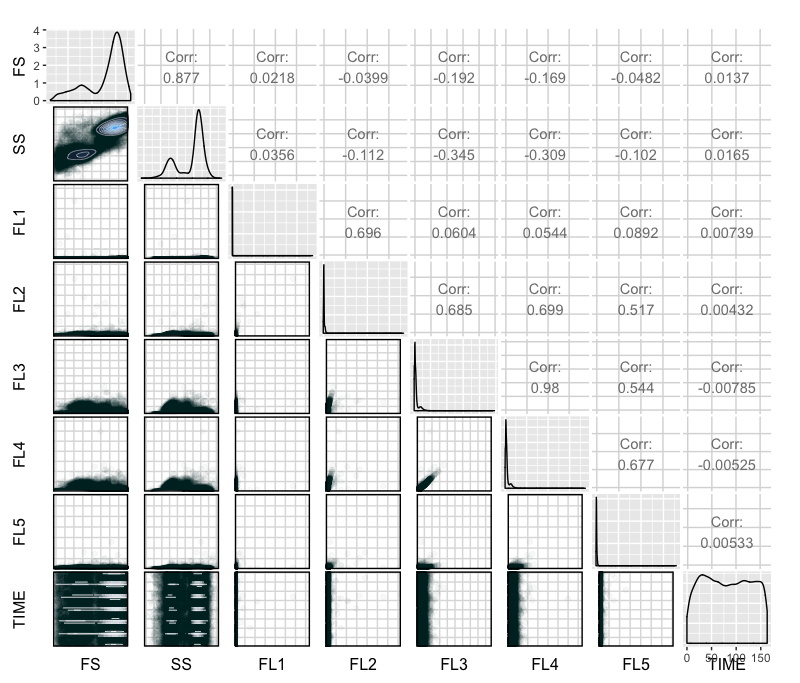
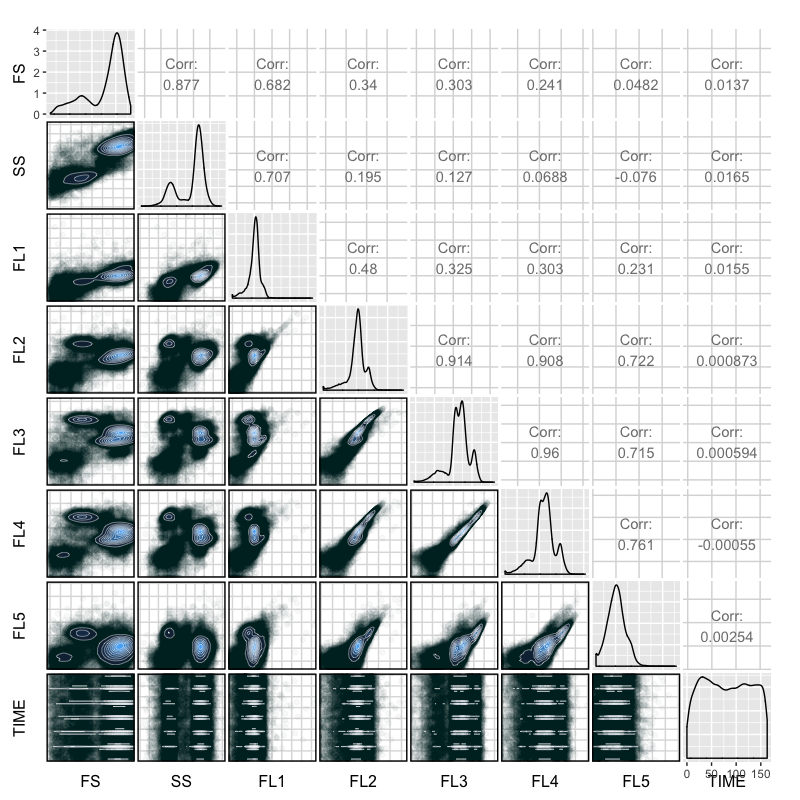
Fix multivariate plot

diff --git a/README.md b/README.md
@@ -883,12 +883,23 @@ Pour estimer les paramètres optimaux de la transformation biexponentielle,il ex
 * w: la largeur de la zone de linéarisation, qui peut être estimée par (m - log(t/abs(r)))/2 mais qui peut nécessiter quelques ajustements.
 * a: ce paramètre est moins important mais peut être utilisé pour tasser davantage les valeurs vers les positifs après avoir choisi les autres paramètres. On peut habituellement le laisser à 0.
 
-Bref je vous épargne les essais et erreurs, mais j'en suis arrivé aux paramètres suivants à partir des graphes qu'on vient de générer. On effectue la transformation des données!
+Bref je vous épargne les essais et erreurs, mais j'en suis arrivé aux paramètres suivants à partir des graphes qu'on vient de générer, et les graphes des channels de fluorescence (FL1 à FL5), que je ne montre pas ici. On effectue la transformation des données!
 
 ```
-lgcl_FS <- logicleTransform(w=0.6, t=1300000, m=4.5, a=0)
-lgcl_SS <- logicleTransform(w=0.5, t=500, m=3, a=0)
-tData <- transform(pt4_fs_trunc, FS=lgcl_FS(FS), SS=lgcl_SS(SS))
+lgcl_FS  <- logicleTransform(w=0.60, t=1300000, m=4.5, a=0)
+lgcl_SS  <- logicleTransform(w=0.50, t=500,     m=3,   a=0)
+lgcl_FL1 <- logicleTransform(w=0.79, t=130000,  m=4.5, a=0)
+lgcl_FL2 <- logicleTransform(w=0.92, t=100000,  m=4.5, a=0)
+lgcl_FL3 <- logicleTransform(w=0.92, t=100000,  m=4.5, a=0)
+lgcl_FL4 <- logicleTransform(w=0.46, t=250000,  m=4.5, a=0)
+lgcl_FL5 <- logicleTransform(w=1.17, t=60000,   m=4.5, a=0)
+tData <- transform(pt4_fs_trunc, FS =lgcl_FS(FS),
+                                 SS =lgcl_SS(SS),
+                                 FL1=lgcl_FL1(FL1),
+                                 FL2=lgcl_FL2(FL2),
+                                 FL3=lgcl_FL3(FL3),
+                                 FL4=lgcl_FL4(FL4),
+                                 FL5=lgcl_FL5(FL5))
 
 # tData n'est pas un dataFrame standard de R... c'est un objet de type 'flowFrame' défini
 # par la librairie flowCore. On va le convertir en dataframe standard plus simple à manipuler.
@@ -906,10 +917,10 @@ Excellent! On discerne beaucoup mieux les sous-populations de cellules... Mais l
 
 ```
 make.nice.plot <- function(data,
+                           mapping,
                            plot.title=NULL,
                            y.axis.title="y",
                            x.axis.title="x",
-                           mapping=NULL,
                            binningVect=c(0.2,0.15))
 {
   binningVector <- binningVect # Je n'ai aucune espèce d'idée comment déterminer la taille optimale du binning pour
@@ -986,8 +997,10 @@ make.nice.plot(thing,
 
 ![Graphe de SS et FS pour le premier jeu de données][FC_2]
 
+Vous voulez voir un exemple de réutilisation judicieuse de code, à l'aide de la fonction qu'on vient de définir? Vous allez être servis! On va faire un graphe de tous les channels en fonction de tous les autres channels pour un des jeux de données (il faudra bien prendre soin de transformer les channels autres que SS et FS, mais je ne le démontre pas ici et c'est trivial).
+
 ```
-# Plot all of the things
+# Plot all of the things like it's your last day on earth! Arrrr! Ou devrais-je dire RRRrrrrrr!
 ggpairs(thing, lower = list(continuous = make.nice.plot))
 
 ```
